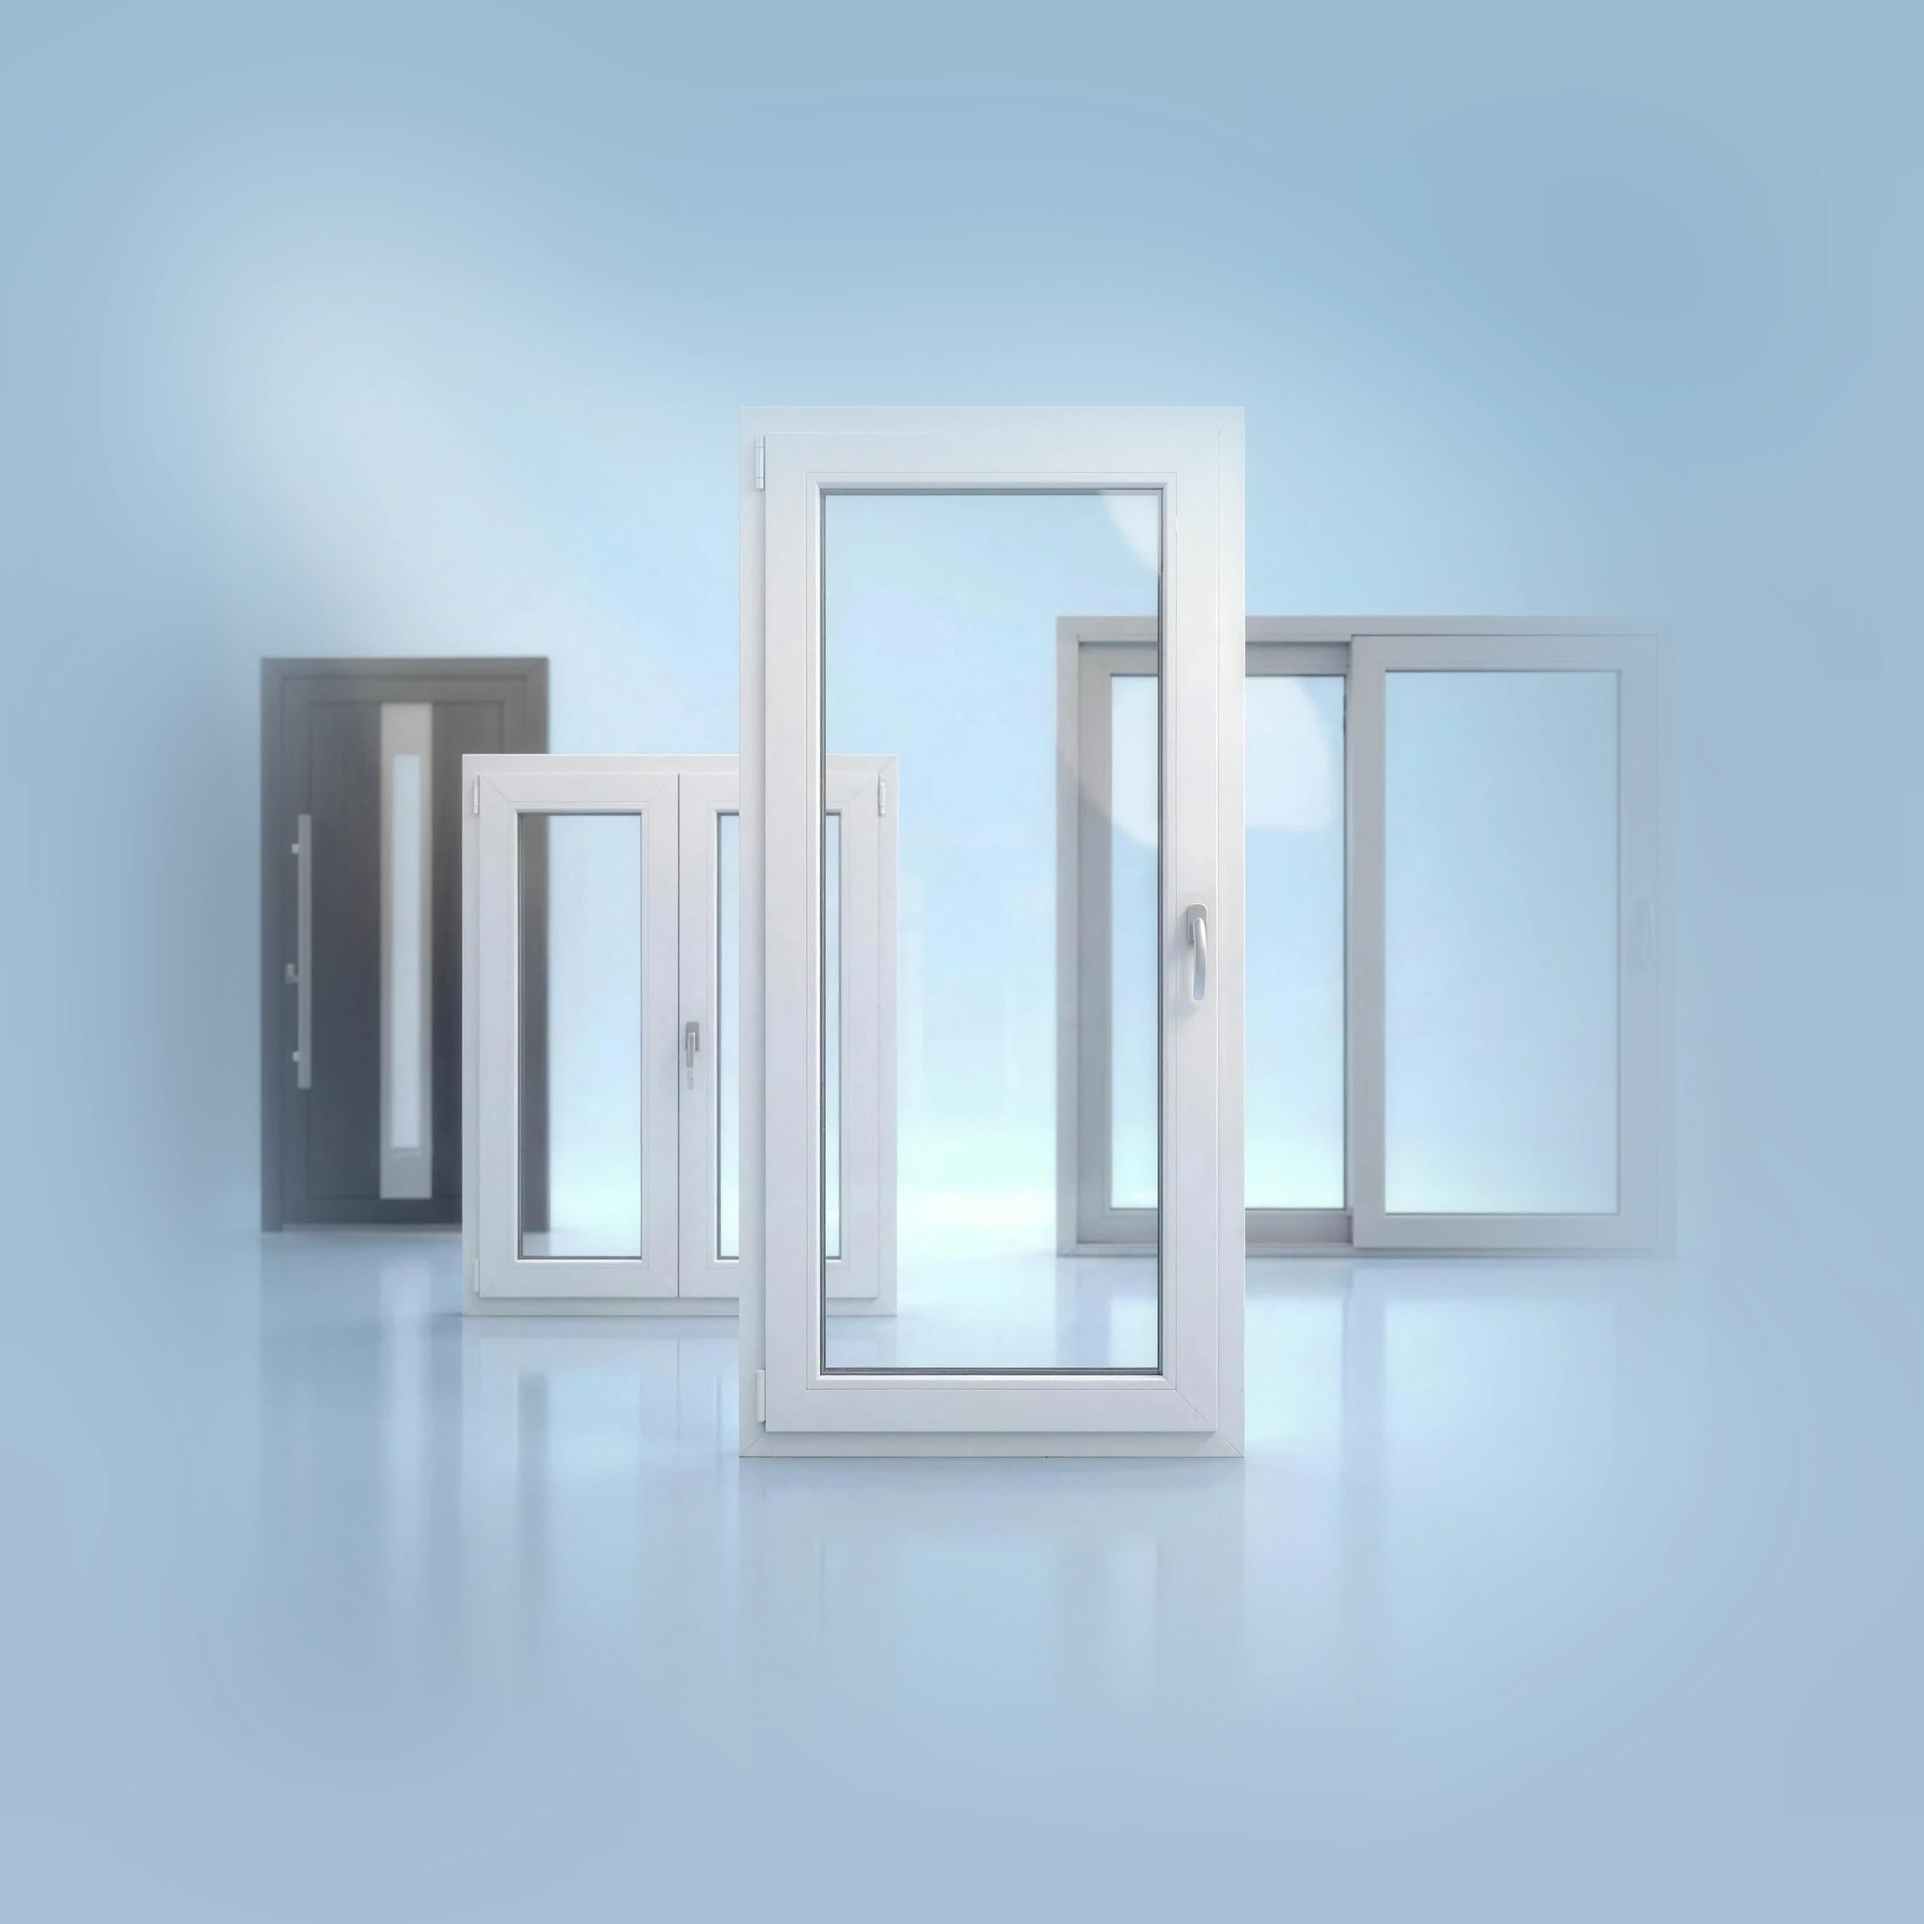
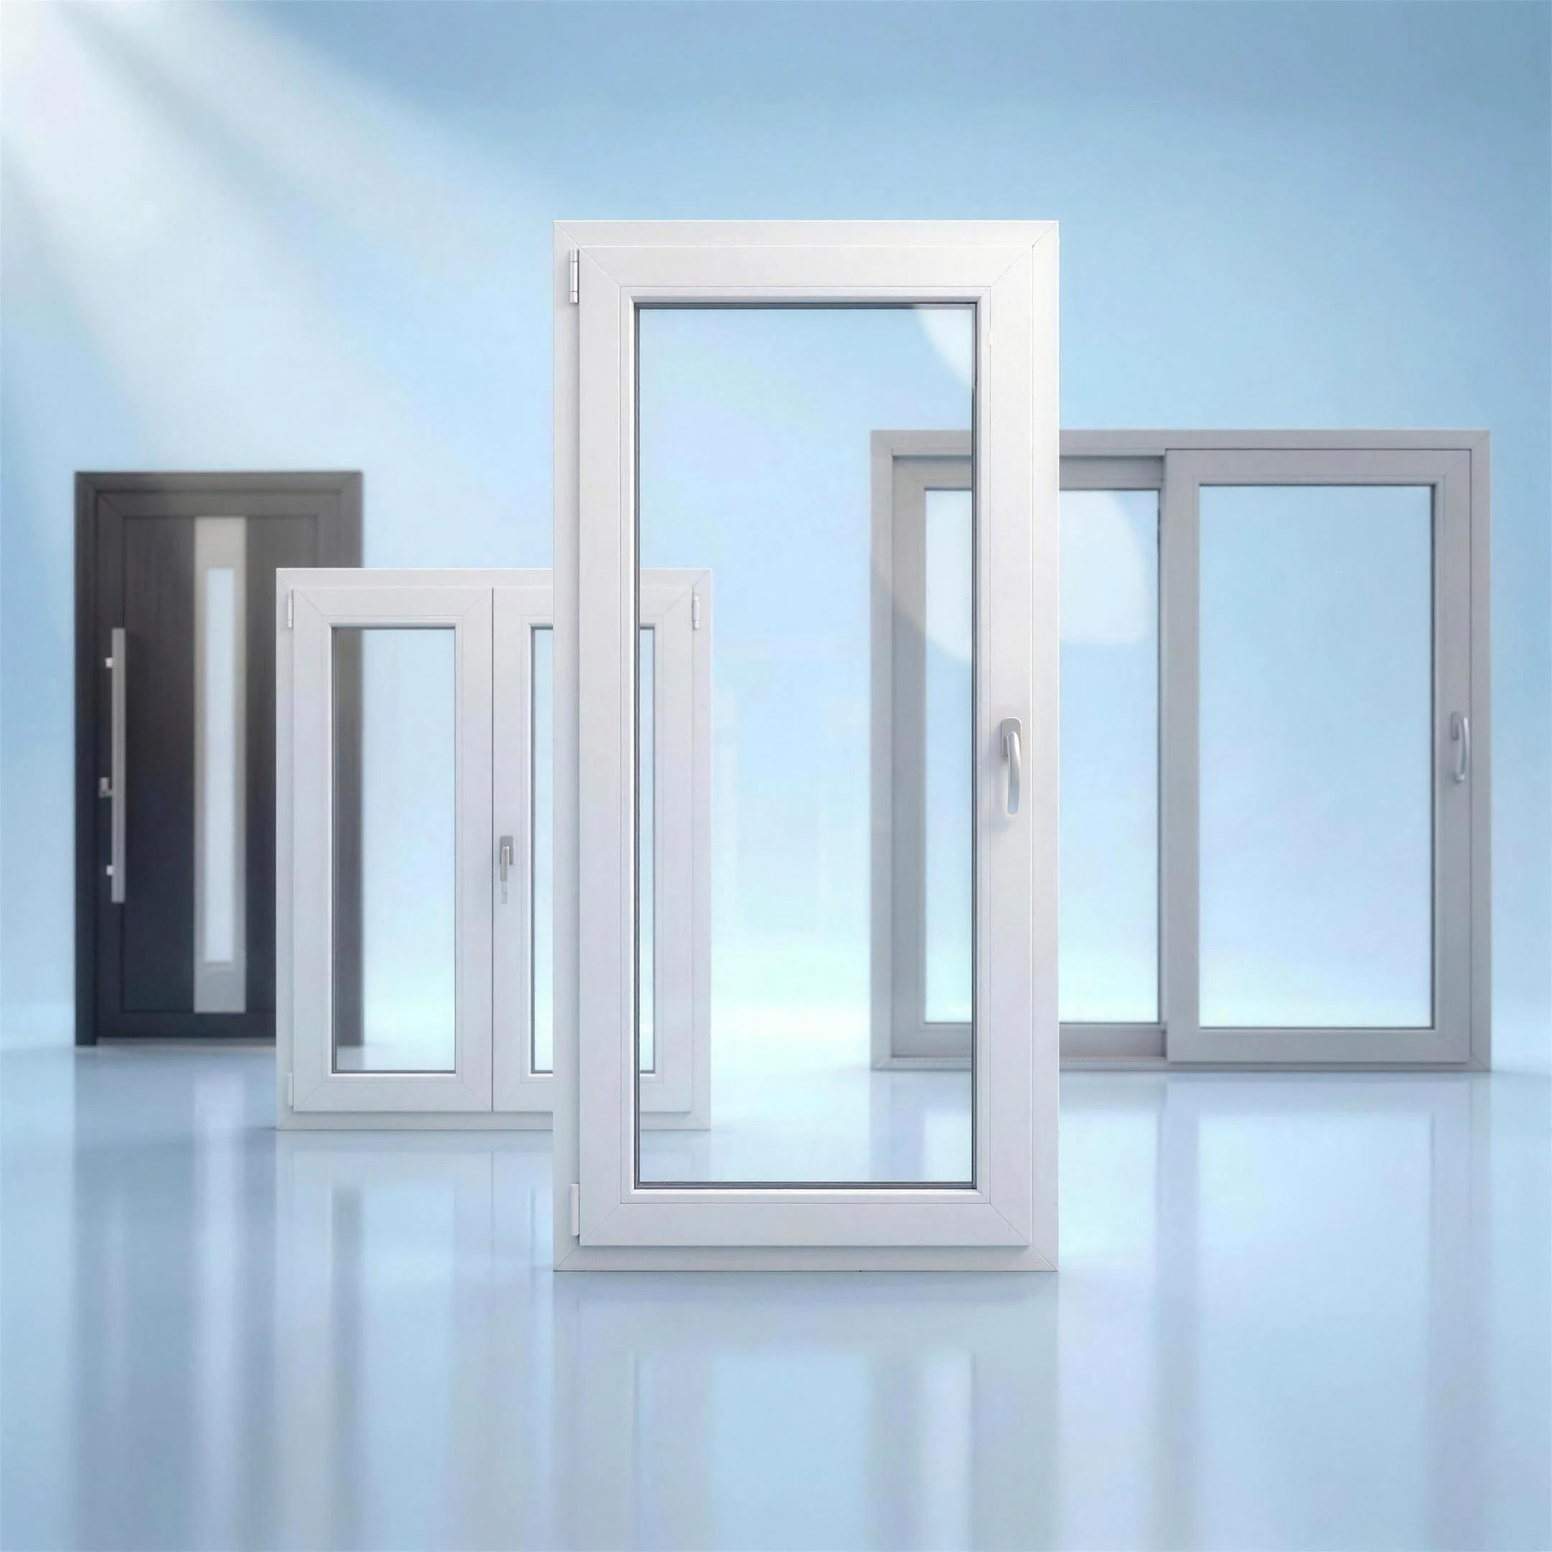
Startseite Hero: schaerfere Produktbilder + randlose Produktansicht am Handy

diff --git a/index.html b/index.html
@@ -878,10 +878,10 @@ body.scrolled .burger{color:var(--text)}
     </div>
     <div class="nhero-media" id="heroImg">
       <div class="nhero-stage" id="heroStage" role="group" aria-roledescription="Produkt-Auswahl" aria-label="Produkt w&auml;hlen &ndash; Pfeiltasten links und rechts oder Klick" tabindex="0">
-        <img class="nhero-layer is-active" data-prod="fenster" src="img/_hero-sw-fenster.webp?v=ne2" alt="Kunststofffenster nach Ma&szlig; von Drutex, dahinter Haust&uuml;r, Balkont&uuml;r und Schiebet&uuml;r" fetchpriority="high" width="1024" height="1024">
-        <img class="nhero-layer" data-prod="balkon" src="img/_hero-sw-balkon.webp?v=ne2" alt="Balkont&uuml;r nach Ma&szlig; von Drutex" loading="lazy" width="1024" height="1024">
-        <img class="nhero-layer" data-prod="haustuer" src="img/_hero-sw-haustuer.webp?v=ne2" alt="Haust&uuml;r nach Ma&szlig; von Drutex" loading="lazy" width="1024" height="1024">
-        <img class="nhero-layer" data-prod="schiebe" src="img/_hero-sw-schiebe.webp?v=ne2" alt="Hebe-Schiebet&uuml;r nach Ma&szlig; von Drutex" loading="lazy" width="1024" height="1024">
+        <img class="nhero-layer is-active" data-prod="fenster" src="img/_hero-sw-fenster.webp?v=r3" alt="Kunststofffenster nach Ma&szlig; von Drutex, dahinter Haust&uuml;r, Balkont&uuml;r und Schiebet&uuml;r" fetchpriority="high" width="1024" height="1024">
+        <img class="nhero-layer" data-prod="balkon" src="img/_hero-sw-balkon.webp?v=r3" alt="Balkont&uuml;r nach Ma&szlig; von Drutex" loading="lazy" width="1024" height="1024">
+        <img class="nhero-layer" data-prod="haustuer" src="img/_hero-sw-haustuer.webp?v=r3" alt="Haust&uuml;r nach Ma&szlig; von Drutex" loading="lazy" width="1024" height="1024">
+        <img class="nhero-layer" data-prod="schiebe" src="img/_hero-sw-schiebe.webp?v=r3" alt="Hebe-Schiebet&uuml;r nach Ma&szlig; von Drutex" loading="lazy" width="1024" height="1024">
       </div>
       <button class="nhero-nav nhero-nav-prev" id="heroPrev" type="button" aria-label="Vorheriges Produkt"><span class="material-symbols-outlined" aria-hidden="true">chevron_left</span></button>
       <button class="nhero-nav nhero-nav-next" id="heroNext" type="button" aria-label="N&auml;chstes Produkt"><span class="material-symbols-outlined" aria-hidden="true">chevron_right</span></button>
@@ -1440,6 +1440,11 @@ body.scrolled .burger{color:var(--text)}
     {key:'haustuer',name:'Haustür',    prod:'haustuer'},
     {key:'schiebe', name:'Schiebetür', prod:'schiebe'}
   ];
+  // Responsive Produktbilder: Desktop = scharfe Studio-Originale, Handy = randlose Version (nahtlos)
+  var MOBQ=window.matchMedia('(max-width:960px)');
+  function applyHeroSrc(){ layers.forEach(function(l){ var p=l.getAttribute('data-prod'); if(!p) return; var want='img/_hero-sw-'+p+(MOBQ.matches?'-seam':'')+'.webp?v=r3'; if(l.getAttribute('src')!==want) l.setAttribute('src',want); }); }
+  applyHeroSrc();
+  try{ MOBQ.addEventListener('change',applyHeroSrc); }catch(e){ try{ MOBQ.addListener(applyHeroSrc); }catch(_){} }
   var idx=0, swapT=null, swiped=false;
   function setActive(i){
     i=((i%PRODS.length)+PRODS.length)%PRODS.length;
